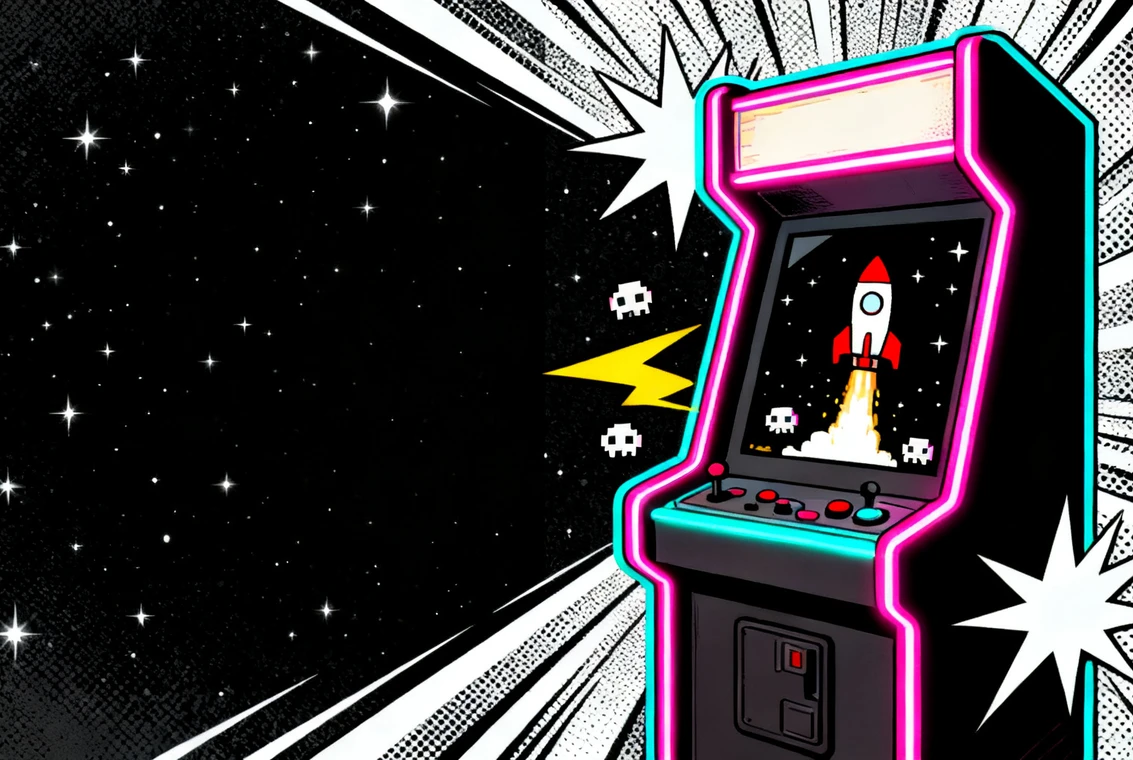
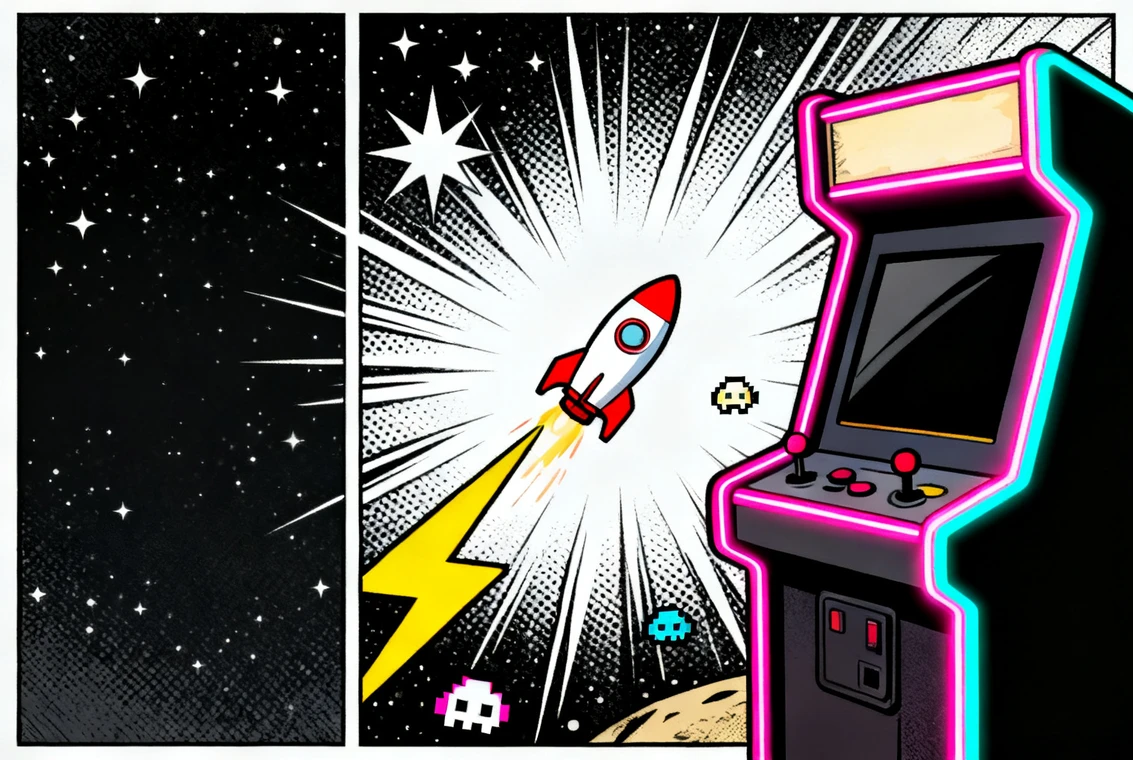
Comic reskin: Story Quests fix + EL Map/Library/Treasure Den comic pass + home hero art

diff --git a/src/styles/comic-theme.css b/src/styles/comic-theme.css
@@ -848,3 +848,133 @@
   box-shadow: 2px 2px 0 var(--comic-ink);
   font-weight: 900;
 }
+
+/* ═══ C2. EL MAP QUESTS — extra chrome ═════════════════════════════════ */
+.student-mode-app .skills-block-quest .sbq-top {
+  background: var(--comic-white);
+  border: var(--comic-bw) solid var(--comic-ink);
+  border-radius: var(--comic-r);
+  box-shadow: var(--comic-shadow-sm);
+}
+.student-mode-app .skills-block-quest .sbq-world-tabs button.active,
+.student-mode-app .skills-block-quest .sbq-world-tabs button[aria-pressed="true"] {
+  background: var(--comic-green);
+  color: #fff;
+}
+.student-mode-app .skills-block-quest .sbq-stations {
+  background: var(--comic-white);
+  border: var(--comic-bw) solid var(--comic-ink);
+  border-radius: var(--comic-r);
+  box-shadow: var(--comic-shadow-sm);
+}
+.student-mode-app .skills-block-quest .sbq-station {
+  border: 2px solid var(--comic-ink);
+  border-radius: var(--comic-r-sm);
+  box-shadow: 2px 2px 0 var(--comic-ink);
+  background: #fffdf4;
+}
+.student-mode-app .skills-block-quest .sbq-station-icon {
+  border: 2px solid var(--comic-ink);
+  border-radius: 8px;
+}
+/* Right quest rail reads like the mockup's red panel */
+.student-mode-app .skills-block-quest .sbq-next-up {
+  border-top: 8px solid var(--comic-red);
+}
+
+/* ═══ E2. READING LIBRARY — real hooks ═════════════════════════════════ */
+.student-guided-reading-page .guided-reading-hero h1,
+.student-guided-reading-page .guided-reading-hero h2,
+.student-guided-reading-page .guided-reading-hero > strong {
+  font-family: var(--comic-display);
+  font-style: italic;
+  text-transform: uppercase;
+  letter-spacing: 0.01em;
+  color: var(--comic-ink);
+  line-height: 0.95;
+}
+.student-guided-reading-page .guided-reading-hero {
+  background: var(--comic-white);
+  border: var(--comic-bw) solid var(--comic-ink);
+  border-radius: var(--comic-r);
+  box-shadow: var(--comic-shadow-sm);
+}
+.student-guided-reading-page .guided-category-card {
+  border: var(--comic-bw-lg) solid var(--comic-ink);
+  border-radius: var(--comic-r);
+  box-shadow: var(--comic-shadow);
+  background: #fff;
+}
+.student-guided-reading-page .guided-category-icon {
+  border: var(--comic-bw) solid var(--comic-ink);
+  border-radius: 10px;
+  box-shadow: 2px 2px 0 var(--comic-ink);
+  font-family: var(--comic-display);
+  color: var(--comic-ink);
+}
+.student-guided-reading-page .guided-book-card {
+  border: var(--comic-bw) solid var(--comic-ink);
+  border-radius: var(--comic-r);
+  box-shadow: var(--comic-shadow-sm);
+  overflow: hidden;
+}
+.student-guided-reading-page .guided-book-card.active {
+  box-shadow: var(--comic-shadow);
+  transform: translate(-1px, -2px);
+}
+.student-guided-reading-page .guided-book-cover-wrap {
+  border-bottom: var(--comic-bw) solid var(--comic-ink);
+}
+.student-guided-reading-page .guided-recommendation-panel {
+  background: var(--comic-white);
+  border: var(--comic-bw) solid var(--comic-ink);
+  border-radius: var(--comic-r);
+  box-shadow: var(--comic-shadow-sm);
+}
+.student-guided-reading-page .guided-recommendation-list > * {
+  border: 2px solid var(--comic-ink);
+  border-radius: var(--comic-r-sm);
+  box-shadow: 2px 2px 0 var(--comic-ink);
+  background: #fffdf4;
+}
+
+/* ═══ F. TREASURE DEN (rewards) ════════════════════════════════════════ */
+.student-mode-app .rewards-page .den-title h1,
+.student-mode-app .rewards-page .den-title h2,
+.student-mode-app .rewards-page .den-title > strong {
+  font-family: var(--comic-display);
+  font-style: italic;
+  text-transform: uppercase;
+  letter-spacing: 0.01em;
+  color: var(--comic-ink);
+  line-height: 0.95;
+}
+.student-mode-app .rewards-page .den-header,
+.student-mode-app .rewards-page .den-card {
+  background: var(--comic-white);
+  border: var(--comic-bw) solid var(--comic-ink);
+  border-radius: var(--comic-r-lg);
+  box-shadow: var(--comic-shadow);
+}
+.student-mode-app .rewards-page .kid-gem-counter {
+  background: #fff;
+  color: var(--comic-ink);
+  border: var(--comic-bw) solid var(--comic-ink);
+  border-radius: 10px;
+  box-shadow: var(--comic-shadow-sm);
+  font-family: var(--comic-label);
+  font-weight: 900;
+}
+.student-mode-app .rewards-page .kid-badge-medal,
+.student-mode-app .rewards-page .den-earn {
+  border: var(--comic-bw) solid var(--comic-ink);
+  border-radius: var(--comic-r);
+  box-shadow: var(--comic-shadow-sm);
+}
+.student-mode-app .rewards-page .kid-next-unlock-track {
+  border: 2px solid var(--comic-ink);
+  border-radius: 999px;
+  overflow: hidden;
+  background: #fff;
+}
+.student-mode-app .rewards-page .kid-next-unlock-track > span { background: var(--comic-yellow); }
